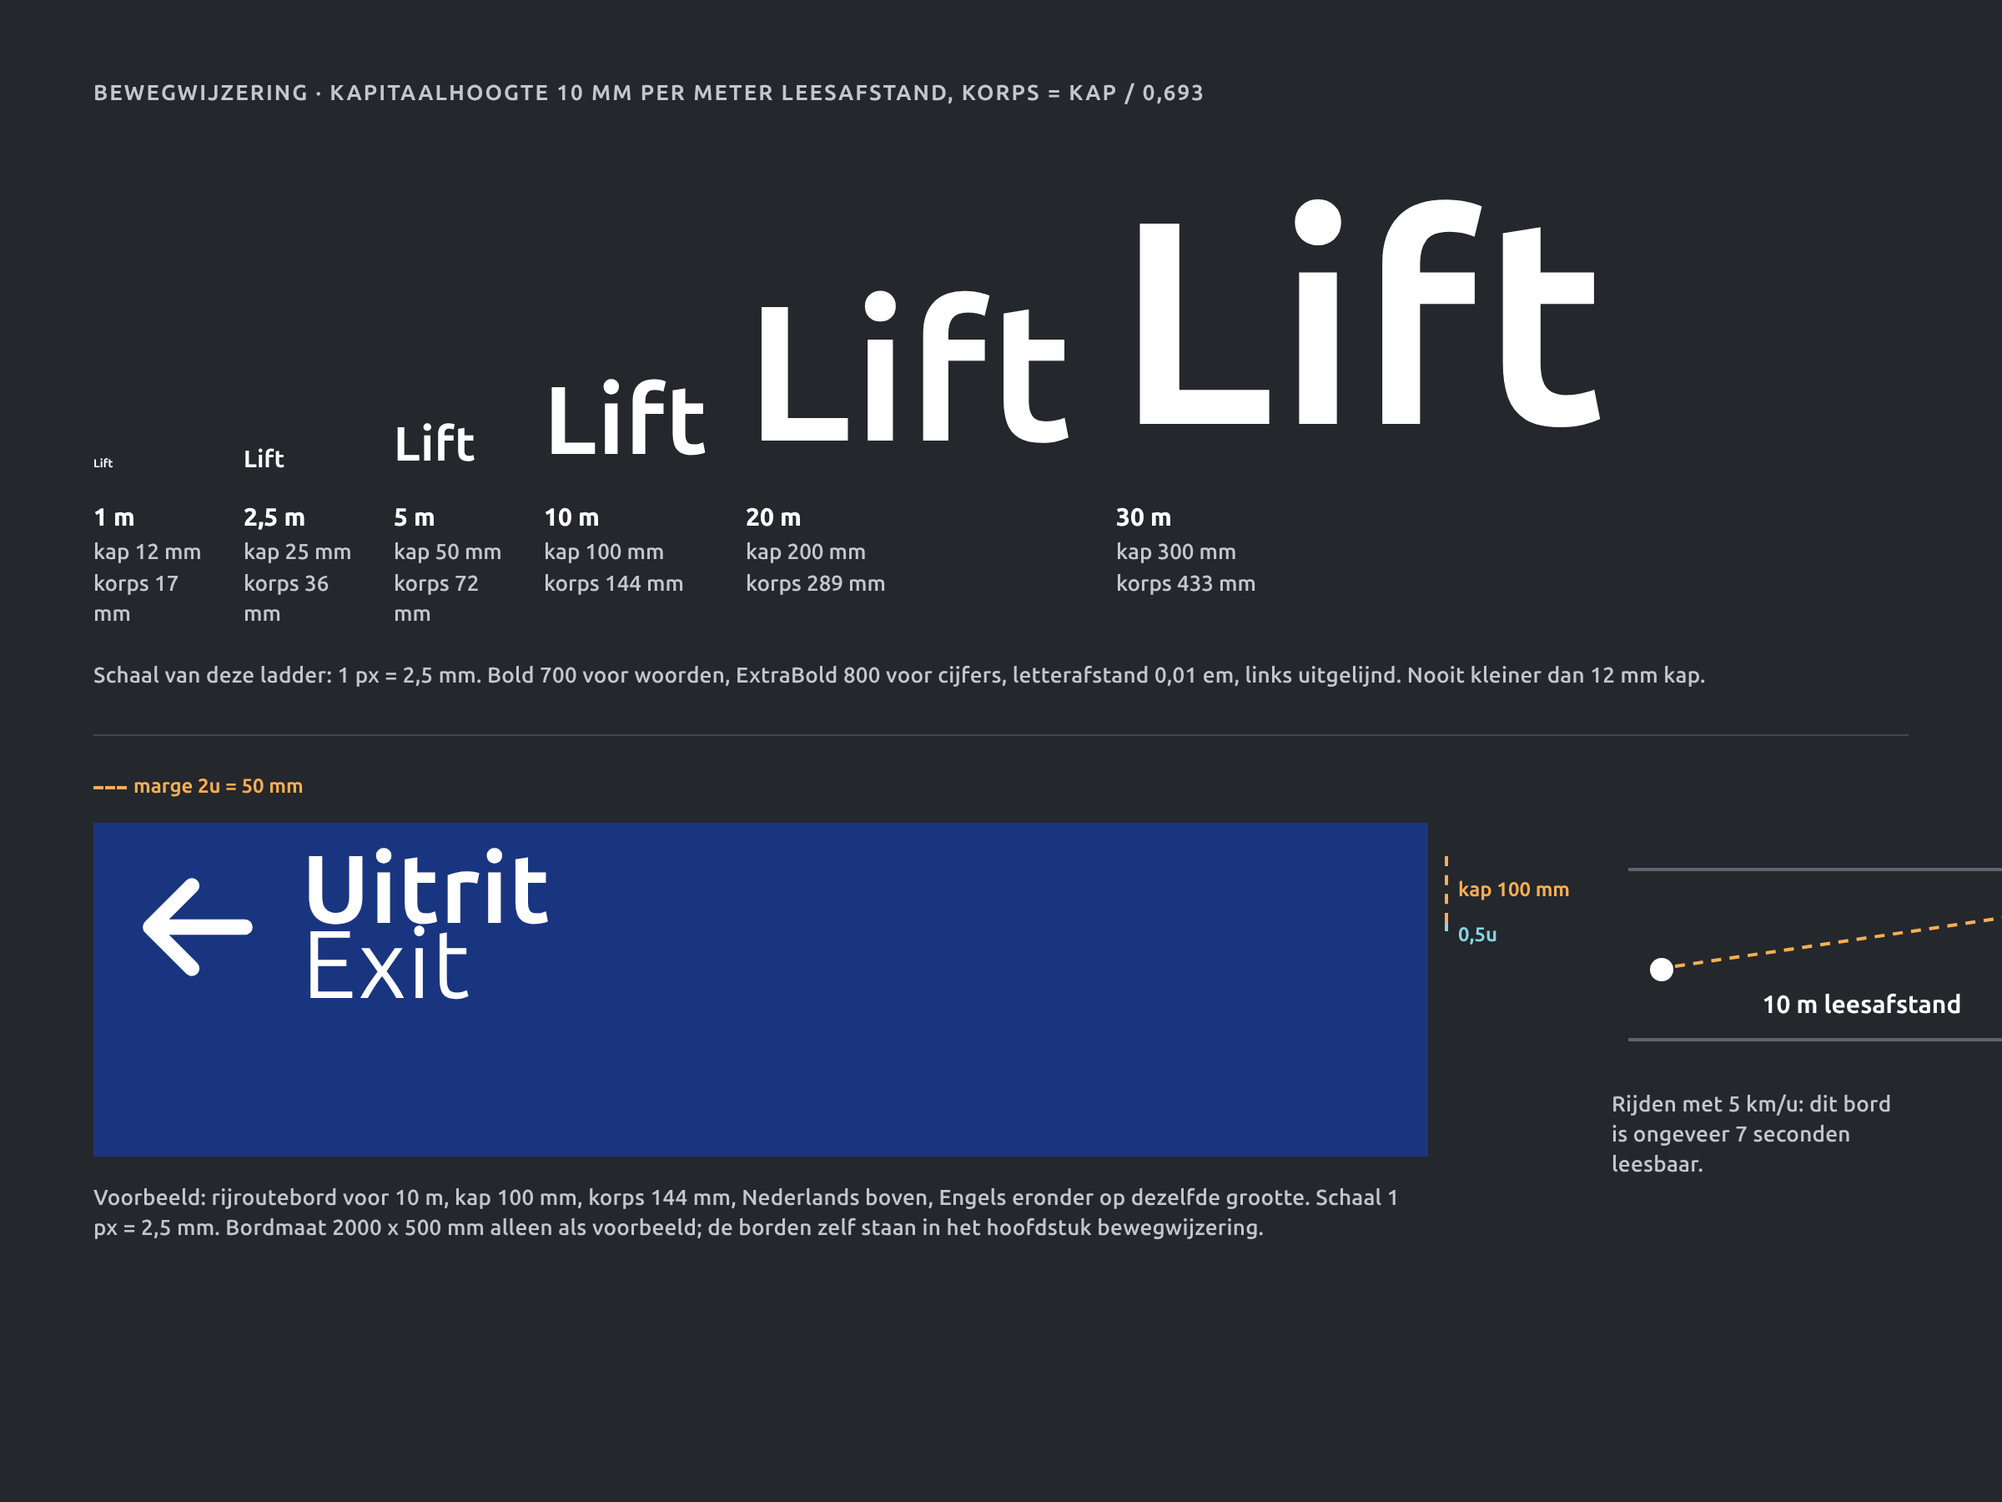
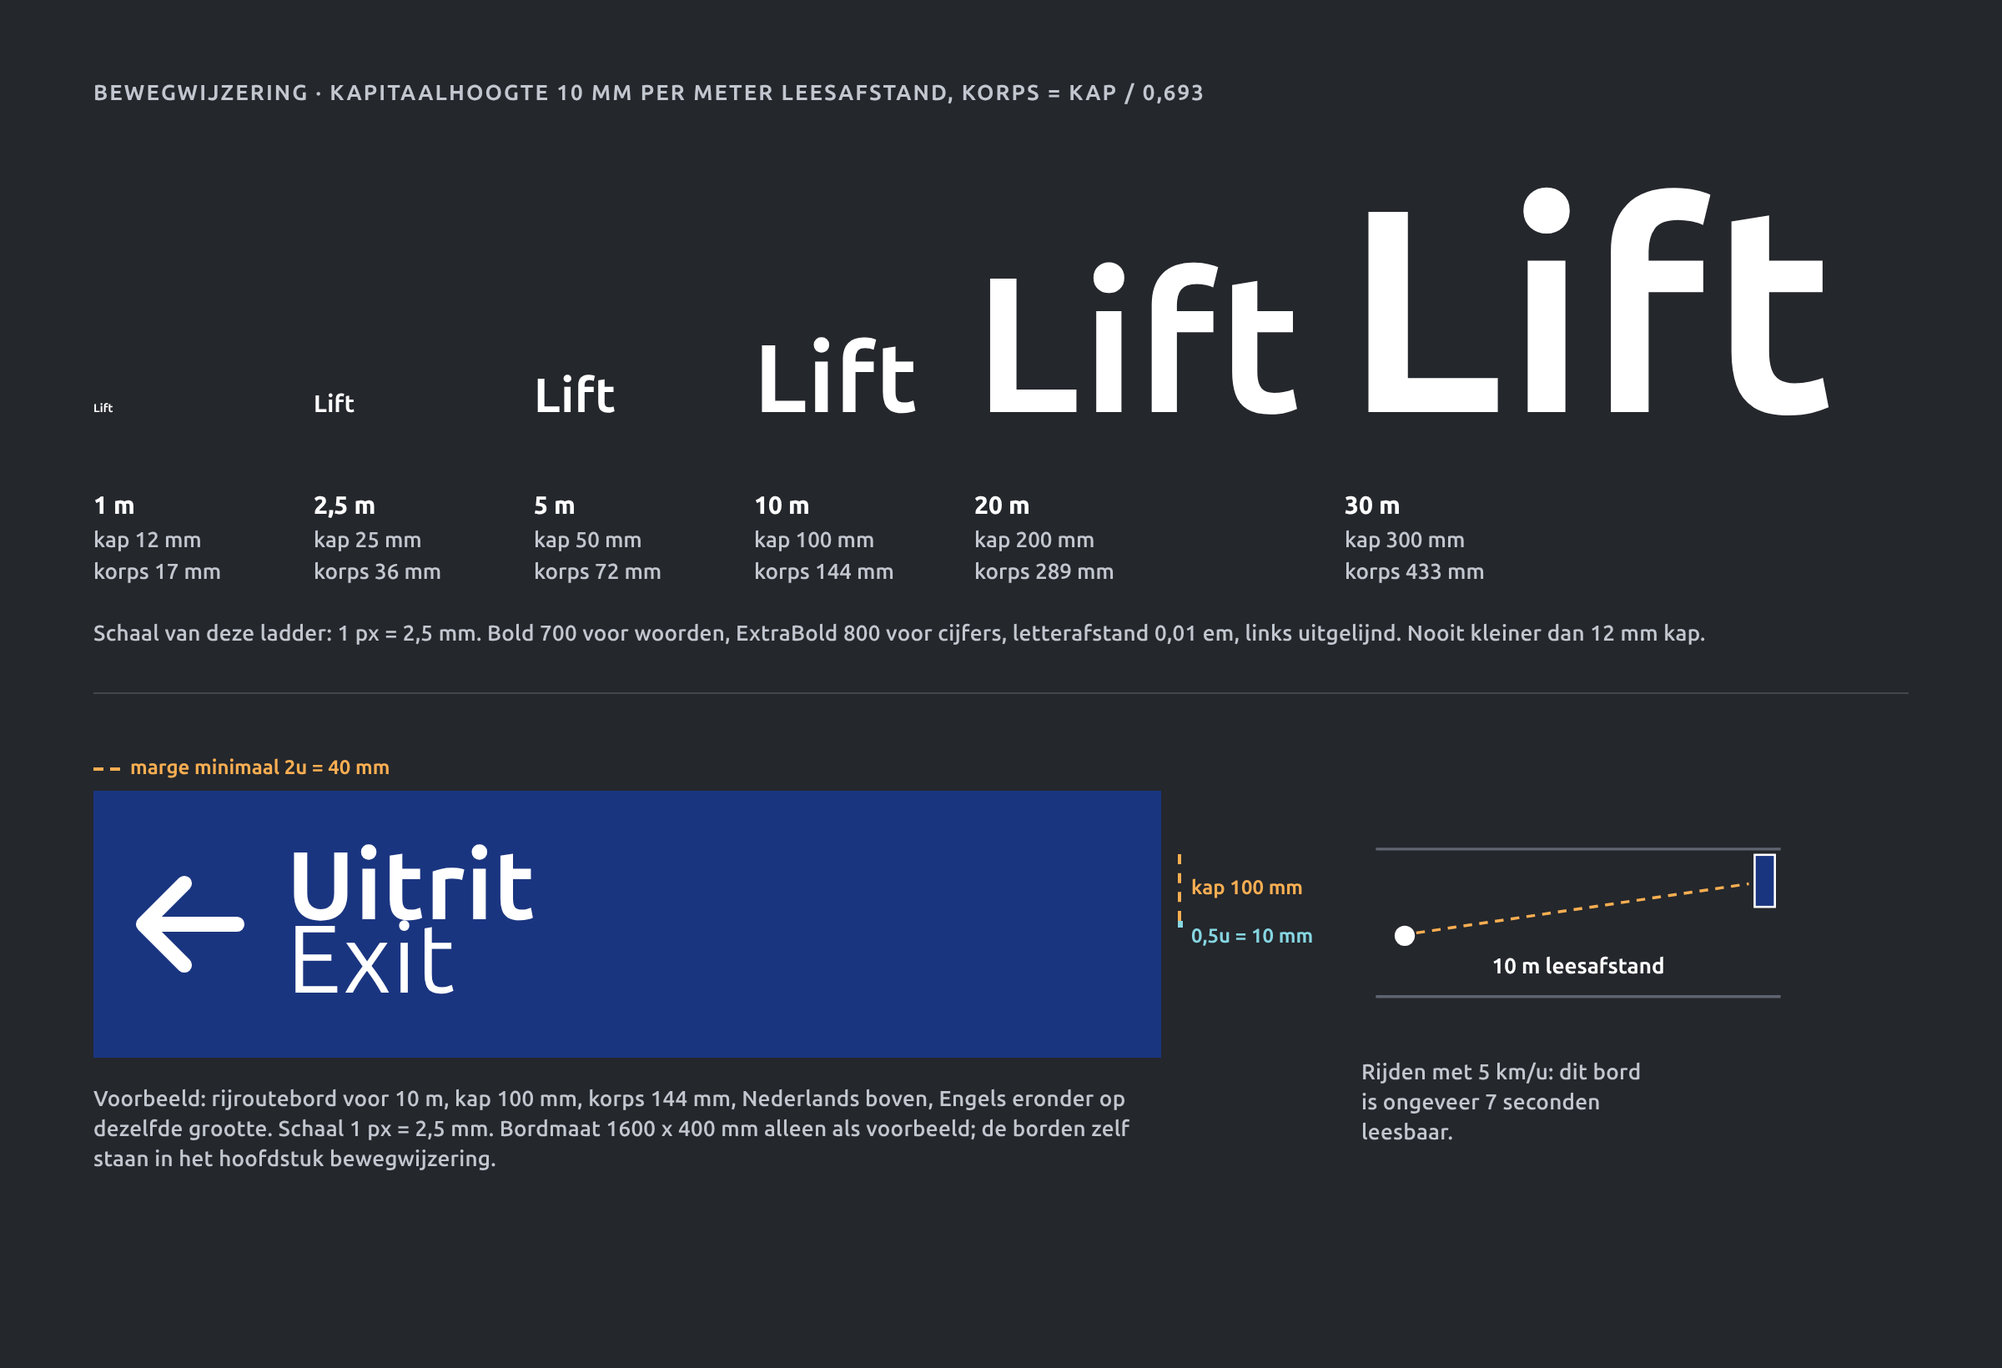
Brand refresh 2027, Phase 2 (work in progress): build workstream progress
Claude-Session: https://claude.ai/code/session_01A5zCZPhhdyTXntSMSAxsZz

diff --git a/brand-2027/02-build/03-typografie/figures/signage-sizing.html b/brand-2027/02-build/03-typografie/figures/signage-sizing.html
@@ -9,27 +9,27 @@
 </style>
 </head>
 <body>
-<div class="fig fig--garage" style="width:1200px;height:900px;padding:48px 56px;display:flex;flex-direction:column;gap:18px">
+<div class="fig fig--garage" style="width:1200px;height:820px;padding:48px 56px;display:flex;flex-direction:column;gap:18px">
 <div class="eyebrow" style="color:#C2C7CF">Bewegwijzering · kapitaalhoogte 10 mm per meter leesafstand, korps = kap / 0,693</div>
-<div style="display:flex;gap:20px;align-items:baseline;height:200px;align-items:flex-end"><div style="width:70px;display:flex;align-items:baseline"><div style="font:700 6.93px/1 var(--py-font-sans);letter-spacing:0.01em;color:#FFFFFF;white-space:nowrap">Lift</div></div><div style="width:70px;display:flex;align-items:baseline"><div style="font:700 14.43px/1 var(--py-font-sans);letter-spacing:0.01em;color:#FFFFFF;white-space:nowrap">Lift</div></div><div style="width:70px;display:flex;align-items:baseline"><div style="font:700 28.86px/1 var(--py-font-sans);letter-spacing:0.01em;color:#FFFFFF;white-space:nowrap">Lift</div></div><div style="width:101px;display:flex;align-items:baseline"><div style="font:700 57.72px/1 var(--py-font-sans);letter-spacing:0.01em;color:#FFFFFF;white-space:nowrap">Lift</div></div><div style="width:202px;display:flex;align-items:baseline"><div style="font:700 115.44px/1 var(--py-font-sans);letter-spacing:0.01em;color:#FFFFFF;white-space:nowrap">Lift</div></div><div style="width:303px;display:flex;align-items:baseline"><div style="font:700 173.16px/1 var(--py-font-sans);letter-spacing:0.01em;color:#FFFFFF;white-space:nowrap">Lift</div></div></div>
-<div style="display:flex;gap:20px"><div style="width:70px"><div class="tnum" style="font:600 13px/1.45 var(--py-font-sans);color:#C2C7CF"><b style="color:#FFFFFF;font-size:15px">1 m</b><br>kap 12 mm<br>korps 17 mm</div></div><div style="width:70px"><div class="tnum" style="font:600 13px/1.45 var(--py-font-sans);color:#C2C7CF"><b style="color:#FFFFFF;font-size:15px">2,5 m</b><br>kap 25 mm<br>korps 36 mm</div></div><div style="width:70px"><div class="tnum" style="font:600 13px/1.45 var(--py-font-sans);color:#C2C7CF"><b style="color:#FFFFFF;font-size:15px">5 m</b><br>kap 50 mm<br>korps 72 mm</div></div><div style="width:101px"><div class="tnum" style="font:600 13px/1.45 var(--py-font-sans);color:#C2C7CF"><b style="color:#FFFFFF;font-size:15px">10 m</b><br>kap 100 mm<br>korps 144 mm</div></div><div style="width:202px"><div class="tnum" style="font:600 13px/1.45 var(--py-font-sans);color:#C2C7CF"><b style="color:#FFFFFF;font-size:15px">20 m</b><br>kap 200 mm<br>korps 289 mm</div></div><div style="width:303px"><div class="tnum" style="font:600 13px/1.45 var(--py-font-sans);color:#C2C7CF"><b style="color:#FFFFFF;font-size:15px">30 m</b><br>kap 300 mm<br>korps 433 mm</div></div></div>
+<div style="display:flex;gap:20px;align-items:baseline;margin-top:20px"><div style="width:112px;font:700 6.93px/1 var(--py-font-sans);letter-spacing:0.01em;color:#FFFFFF;white-space:nowrap">Lift</div><div style="width:112px;font:700 14.43px/1 var(--py-font-sans);letter-spacing:0.01em;color:#FFFFFF;white-space:nowrap">Lift</div><div style="width:112px;font:700 28.86px/1 var(--py-font-sans);letter-spacing:0.01em;color:#FFFFFF;white-space:nowrap">Lift</div><div style="width:112px;font:700 57.72px/1 var(--py-font-sans);letter-spacing:0.01em;color:#FFFFFF;white-space:nowrap">Lift</div><div style="width:202px;font:700 115.44px/1 var(--py-font-sans);letter-spacing:0.01em;color:#FFFFFF;white-space:nowrap">Lift</div><div style="width:303px;font:700 173.16px/1 var(--py-font-sans);letter-spacing:0.01em;color:#FFFFFF;white-space:nowrap">Lift</div></div>
+<div style="display:flex;gap:20px"><div style="width:112px"><div class="tnum" style="font:600 13px/1.45 var(--py-font-sans);color:#C2C7CF;white-space:nowrap"><b style="color:#FFFFFF;font-size:15px">1 m</b><br>kap 12 mm<br>korps 17 mm</div></div><div style="width:112px"><div class="tnum" style="font:600 13px/1.45 var(--py-font-sans);color:#C2C7CF;white-space:nowrap"><b style="color:#FFFFFF;font-size:15px">2,5 m</b><br>kap 25 mm<br>korps 36 mm</div></div><div style="width:112px"><div class="tnum" style="font:600 13px/1.45 var(--py-font-sans);color:#C2C7CF;white-space:nowrap"><b style="color:#FFFFFF;font-size:15px">5 m</b><br>kap 50 mm<br>korps 72 mm</div></div><div style="width:112px"><div class="tnum" style="font:600 13px/1.45 var(--py-font-sans);color:#C2C7CF;white-space:nowrap"><b style="color:#FFFFFF;font-size:15px">10 m</b><br>kap 100 mm<br>korps 144 mm</div></div><div style="width:202px"><div class="tnum" style="font:600 13px/1.45 var(--py-font-sans);color:#C2C7CF;white-space:nowrap"><b style="color:#FFFFFF;font-size:15px">20 m</b><br>kap 200 mm<br>korps 289 mm</div></div><div style="width:303px"><div class="tnum" style="font:600 13px/1.45 var(--py-font-sans);color:#C2C7CF;white-space:nowrap"><b style="color:#FFFFFF;font-size:15px">30 m</b><br>kap 300 mm<br>korps 433 mm</div></div></div>
 <div class="note note--on-dark">Schaal van deze ladder: 1 px = 2,5 mm. Bold 700 voor woorden, ExtraBold 800 voor cijfers, letterafstand 0,01 em, links uitgelijnd. Nooit kleiner dan 12 mm kap.</div>
-<div style="height:1px;background:#43484F;margin:8px 0 34px"></div>
-<div style="display:flex;gap:110px;align-items:flex-start">
-  <div style="display:flex;flex-direction:column;gap:16px"><div style="position:relative;width:800.0px;height:200.0px;background:#1A3580">
-  <div style="position:absolute;left:20.0px;top:20.0px"><svg viewBox="0 0 24 24" width="85" height="85" aria-hidden="true" style="display:block;flex:none"><g transform="rotate(180 12 12)"><path d="M4 12H20M13 5L20 12L13 19" fill="none" stroke="#FFFFFF" stroke-width="2.6" stroke-linecap="round" stroke-linejoin="round"/></g></svg></div>
-  <div style="position:absolute;left:125.0px;top:11.5px;font:700 57.72px/57.72px var(--py-font-sans);letter-spacing:0.01em;color:#FFFFFF">Uitrit</div>
-  <div style="position:absolute;left:125.0px;top:56.5px;font:400 57.72px/57.72px var(--py-font-sans);letter-spacing:0.01em;color:#FFFFFF">Exit</div>
-  <div style="position:absolute;left:810.0px;top:20.0px;height:40.0px;border-left:2px dashed #FAAE52"></div>
-  <div style="position:absolute;left:818.0px;top:31.0px;font:700 12px/18px var(--py-font-sans);color:#FAAE52;white-space:nowrap">kap 100 mm</div>
-  <div style="position:absolute;left:810.0px;top:60.0px;height:5.0px;border-left:2px solid #86D6E2"></div>
-  <div style="position:absolute;left:818.0px;top:58.0px;font:700 12px/18px var(--py-font-sans);color:#86D6E2;white-space:nowrap">0,5u</div>
-  <div style="position:absolute;left:0;top:-22px;width:20.0px;border-top:2px dashed #FAAE52"></div>
-  <div style="position:absolute;left:24.0px;top:-30px;font:700 12px/16px var(--py-font-sans);color:#FAAE52;white-space:nowrap">marge 2u = 50 mm</div>
+<div style="height:1px;background:#43484F;margin:8px 0 40px"></div>
+<div style="display:flex;gap:120px;align-items:flex-start">
+  <div style="display:flex;flex-direction:column;gap:16px"><div style="position:relative;width:640.0px;height:160.0px;background:#1A3580">
+  <div style="position:absolute;left:16.0px;top:38.0px"><svg viewBox="0 0 24 24" width="84" height="84" aria-hidden="true" style="display:block;flex:none"><g transform="rotate(180 12 12)"><path d="M4 12H20M13 5L20 12L13 19" fill="none" stroke="#FFFFFF" stroke-width="2.6" stroke-linecap="round" stroke-linejoin="round"/></g></svg></div>
+  <div style="position:absolute;left:116.0px;top:29.5px;font:700 57.72px/57.72px var(--py-font-sans);letter-spacing:0.01em;color:#FFFFFF">Uitrit</div>
+  <div style="position:absolute;left:116.0px;top:73.5px;font:400 57.72px/57.72px var(--py-font-sans);letter-spacing:0.01em;color:#FFFFFF">Exit</div>
+  <div style="position:absolute;left:650.0px;top:38.0px;height:40.0px;border-left:2px dashed #FAAE52"></div>
+  <div style="position:absolute;left:658.0px;top:49.0px;font:700 12px/18px var(--py-font-sans);color:#FAAE52;white-space:nowrap">kap 100 mm</div>
+  <div style="position:absolute;left:650.0px;top:78.0px;height:4.0px;border-left:3px solid #86D6E2"></div>
+  <div style="position:absolute;left:658.0px;top:78.0px;font:700 12px/18px var(--py-font-sans);color:#86D6E2;white-space:nowrap">0,5u = 10 mm</div>
+  <div style="position:absolute;left:0;top:-14px;width:16.0px;border-top:2px dashed #FAAE52"></div>
+  <div style="position:absolute;left:22.0px;top:-22px;font:700 12px/16px var(--py-font-sans);color:#FAAE52;white-space:nowrap">marge minimaal 2u = 40 mm</div>
 </div>
-    <div class="note note--on-dark" style="width:800.0px">Voorbeeld: rijroutebord voor 10 m, kap 100 mm, korps 144 mm, Nederlands boven, Engels eronder op dezelfde grootte. Schaal 1 px = 2,5 mm. Bordmaat 2000 x 500 mm alleen als voorbeeld; de borden zelf staan in het hoofdstuk bewegwijzering.</div>
+    <div class="note note--on-dark" style="width:640.0px">Voorbeeld: rijroutebord voor 10 m, kap 100 mm, korps 144 mm, Nederlands boven, Engels eronder op dezelfde grootte. Schaal 1 px = 2,5 mm. Bordmaat 1600 x 400 mm alleen als voorbeeld; de borden zelf staan in het hoofdstuk bewegwijzering.</div>
   </div>
-  <div style="display:flex;flex-direction:column;gap:10px;margin-top:10px"><svg width="300" height="140" viewBox="0 0 300 140" aria-hidden="true">
+  <div style="display:flex;flex-direction:column;gap:10px;margin-top:10px"><svg width="260" height="140" viewBox="0 0 300 140" aria-hidden="true">
 <line x1="10" y1="120" x2="290" y2="120" stroke="#5E6470" stroke-width="2"/>
 <line x1="10" y1="18" x2="290" y2="18" stroke="#5E6470" stroke-width="2"/>
 <circle cx="30" cy="78" r="7" fill="#FFFFFF"/>

diff --git a/brand-2027/02-build/11-toepassingen/figures/posters-stickers.html b/brand-2027/02-build/11-toepassingen/figures/posters-stickers.html
@@ -16,7 +16,7 @@
 </head>
 <body>
 <div class="fig fig--subtle" style="width: 1200px; height: 960px">
-  <div class="eyebrow" style="position: absolute; left: 50px; top: 30px">Posters en stickers · alles op dezelfde schaal, 1 px = 1 mm</div>
+  <div class="eyebrow" style="position: absolute; left: 50px; top: 30px">Posters en stickers · alles op dezelfde schaal</div>
 
   <!-- A2 poster 420 x 594, u = 21 -->
   <div class="lab" style="left: 50px; top: 60px">Poster A2 <span>420 x 594 · u = 21 mm · marketing</span></div>
@@ -25,7 +25,7 @@
     <g clip-path="url(#a2)">
       <rect width="420" height="594" fill="#1A3580"/>
       <image href="../../kit/photos/py-photo-city-tower.jpg" x="0" y="0" width="420" height="252" preserveAspectRatio="xMidYMid slice"/>
-      <path data-b="273" data-x="252" data-y="320" data-line="#32B9CD"/>
+      <path data-b="273" data-x="283.5" data-y="262" data-line="#32B9CD"/>
       <text x="42" y="315" font-size="30" font-weight="700" fill="#FFFFFF">Makkelijk parkeren</text>
       <text x="42" y="350" font-size="30" fill="#FFFFFF">vanuit je broekzak.</text>
       <text x="42" y="392" font-size="15" fill="#FFFFFF">Download nu onze app.</text>
@@ -41,15 +41,15 @@
   <svg style="position: absolute; left: 510px; top: 86px" width="297" height="420" viewBox="0 0 297 420">
     <rect width="297" height="420" fill="#F08300"/>
     <image href="../../kit/assets/logo-horizontal-navy.svg" x="29.7" y="29.7" height="14.85" width="53.8" preserveAspectRatio="xMinYMin meet"/>
-    <text x="29.7" y="140" font-size="32" font-weight="700" fill="#0D142E">Let op.</text>
-    <text x="29.7" y="180" font-size="15" fill="#0D142E">Op <tspan font-weight="700">[locatie]</tspan> kun je</text>
-    <text x="29.7" y="200" font-size="15" fill="#0D142E">tijdelijk niet parkeren.</text>
-    <text x="29.7" y="220" font-size="15" fill="#0D142E">[Datum en tijd].</text>
+    <text x="29.7" y="150" font-size="42.9" font-weight="700" fill="#0D142E">Let op.</text>
+    <text x="29.7" y="190" font-size="21.4" fill="#0D142E">Op <tspan font-weight="700">[locatie]</tspan> kun je</text>
+    <text x="29.7" y="215" font-size="21.4" fill="#0D142E">tijdelijk niet parkeren.</text>
+    <text x="29.7" y="245" font-size="10.7" fill="#0D142E">[Datum en tijd]</text>
     <rect x="29.7" y="300" width="237.6" height="0.5" fill="#0D142E"/>
-    <text x="29.7" y="330" font-size="8.6" font-weight="700" fill="#0D142E">Storing?</text>
-    <text x="29.7" y="352" font-size="15" font-weight="800" fill="#0D142E">085 401 16 47</text>
-    <text x="29.7" y="372" font-size="8.6" fill="#0D142E">We lossen het zo snel mogelijk op.</text>
-    <text x="29.7" y="390.3" font-size="8.6" fill="#0D142E">parkingyou.nl</text>
+    <text x="29.7" y="322" font-size="10.7" font-weight="700" fill="#0D142E">Storing? Bel</text>
+    <text x="29.7" y="347" font-size="21.4" font-weight="800" fill="#0D142E">085 401 16 47</text>
+    <text x="29.7" y="368" font-size="10.7" fill="#0D142E">We lossen het zo snel mogelijk op.</text>
+    <text x="29.7" y="388" font-size="10.7" font-weight="700" fill="#0D142E">parkingyou.nl</text>
     <rect x="29.7" y="29.7" width="237.6" height="360.6" fill="none" stroke="#1A3580" stroke-width="0.6" stroke-dasharray="4 3" opacity="0.6"/>
   </svg>
 
@@ -72,20 +72,19 @@
   <div class="lab" style="left: 850px; top: 196px">Instructie laadpaal <span>250 x 300</span></div>
   <svg style="position: absolute; left: 850px; top: 222px" width="250" height="300" viewBox="0 0 250 300">
     <rect width="250" height="300" rx="3.18" fill="#1A3580"/>
-    <svg data-p="ev" x="25" y="25" width="38" height="38" style="color:#FFFFFF"></svg>
-    <text x="25" y="111" font-size="29" font-weight="700" fill="#FFFFFF">Kabel</text>
-    <text x="25" y="143" font-size="29" font-weight="700" fill="#FFFFFF">terughangen</text>
-    <text x="25" y="175" font-size="29" fill="#FFFFFF">na gebruik.</text>
-    <rect x="25" y="188" width="200" height="1" fill="#32B9CD"/>
-    <text x="25" y="225" font-size="29" font-weight="700" fill="#FFFFFF">Return cable</text>
-    <text x="25" y="257" font-size="29" fill="#FFFFFF">to hook after</text>
-    <text x="25" y="275" font-size="29" fill="#FFFFFF" opacity="0"> </text>
-    <text x="25" y="275" font-size="0.1" fill="#FFFFFF"></text>
+    <svg data-p="ev" x="25" y="22" width="36" height="36" style="color:#FFFFFF"></svg>
+    <text x="25" y="95" font-size="26" font-weight="700" fill="#FFFFFF">Kabel</text>
+    <text x="25" y="124" font-size="26" font-weight="700" fill="#FFFFFF">terughangen</text>
+    <text x="25" y="153" font-size="26" fill="#FFFFFF">na gebruik.</text>
+    <rect x="25" y="168" width="200" height="1" fill="#32B9CD"/>
+    <text x="25" y="202" font-size="26" font-weight="700" fill="#FFFFFF">Return cable</text>
+    <text x="25" y="231" font-size="26" fill="#FFFFFF">to hook</text>
+    <text x="25" y="260" font-size="26" fill="#FFFFFF">after use.</text>
   </svg>
 
   <div class="col" style="left: 50px; top: 710px; width: 420px">
     <div class="h">Posters</div>
-    Marge 2u, 6 kolommen. Kop met kaphoogte 1u tot 2u (A2: font 30 mm, kap 21 mm), tekst 0,5u. Eén bubbel per poster: hier als lijn in aqua, 13u, afgesneden door de rand. Foto in een gewone rechthoek, tekst op het navy vlak. Logo minstens 1u hoog. A3 "let op" in PY-Oranje met PY-Diep en het navy logo; geen uitroepteken.
+    Marge 2u, 6 kolommen. Kop met kaphoogte 1u tot 2u (A2: font 30 mm, kap 21 mm; A3: "Let op." 2u), tekst 0,3u tot 0,5u. Eén bubbel per poster: hier als lijn in aqua, 13u, afgesneden door de rand. Foto in een gewone rechthoek, tekst op het navy vlak. Logo minstens 1u hoog. A3 "let op" in PY-Oranje met PY-Diep en het navy logo; geen uitroepteken.
   </div>
   <div class="col" style="left: 510px; top: 710px; width: 290px">
     <div class="h">Papier en kleur</div>
@@ -93,7 +92,7 @@
   </div>
   <div class="col" style="left: 850px; top: 540px; width: 300px">
     <div class="h">Stickers</div>
-    Raam en NFC volgen de printschaal (22 en 15 pt). De laadpaalsticker lees je van 2 m: kap 20 mm (font 29 mm), NL boven, EN eronder even groot, gescheiden door een aqua lijn. Polymeer vinyl, <b>mat</b> gelamineerd, hoek 3,18 mm, ThruCut-contour. NFC is boeken, dus oranje.
+    Raam en NFC volgen de printschaal (22 en 15 pt). De laadpaalsticker lees je van 1,8 m: kap 18 mm (font 26 mm), NL boven, EN eronder even groot, gescheiden door een aqua lijn. Polymeer vinyl, <b>mat</b> gelamineerd, hoek 3,18 mm, ThruCut-contour. NFC is boeken, dus oranje.
   </div>
 </div>
 </body>

diff --git a/brand-2027/02-build/03-typografie/figures/specimen.html b/brand-2027/02-build/03-typografie/figures/specimen.html
@@ -9,7 +9,7 @@
 </style>
 </head>
 <body>
-<div class="fig" style="width:1200px;height:900px;padding:48px;display:flex;flex-direction:column;gap:22px">
+<div class="fig" style="width:1200px;height:850px;padding:48px;display:flex;flex-direction:column;gap:22px">
 <div class="eyebrow">Typografie · Ubuntu Sans, variabel</div>
 <div style="display:flex;gap:48px;align-items:flex-end">
   <div style="font:800 200px/0.9 var(--py-font-sans);color:#1A3580;letter-spacing:-0.01em">Aa</div>
